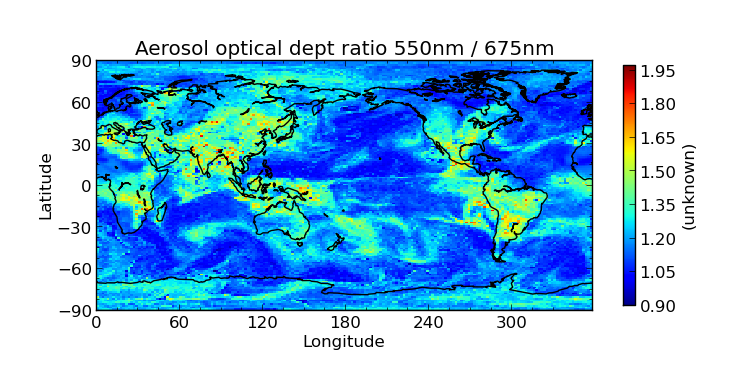
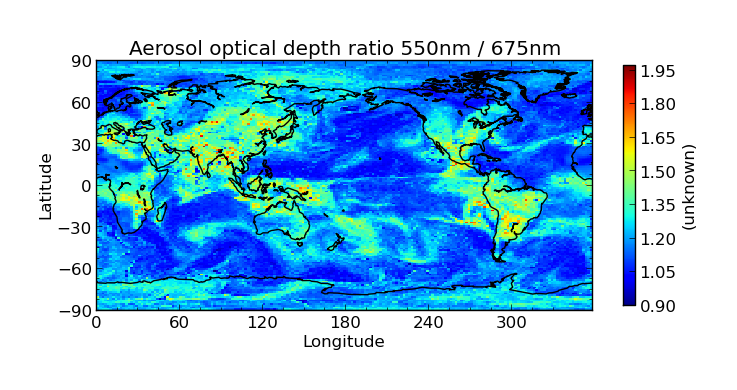
Fix typo in eval documentation and doc image.

Changed region(s): [[0.156, 0.0923, 0.7802, 0.1538]]

diff --git a/doc/evaluation.rst b/doc/evaluation.rst
@@ -162,7 +162,7 @@ The following command is used to perform the evaluation::
 
 Which, when plotted gives the following result::
 
-    $ cis plot aerosol_ratio:eval_out.nc --title "Aerosol optical dept ratio 550nm / 675nm" --cbarscale 0.5
+    $ cis plot aerosol_ratio:eval_out.nc --title "Aerosol optical depth ratio 550nm / 675nm" --cbarscale 0.5
 
 .. image:: img/eval_ratio.png
    :width: 450px
